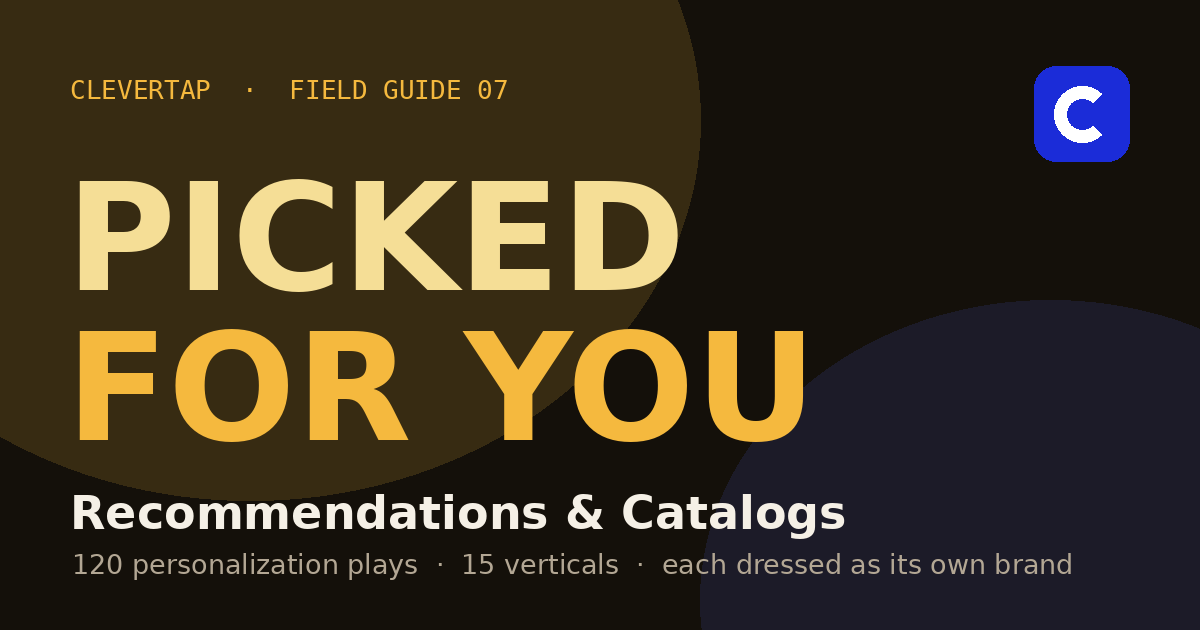
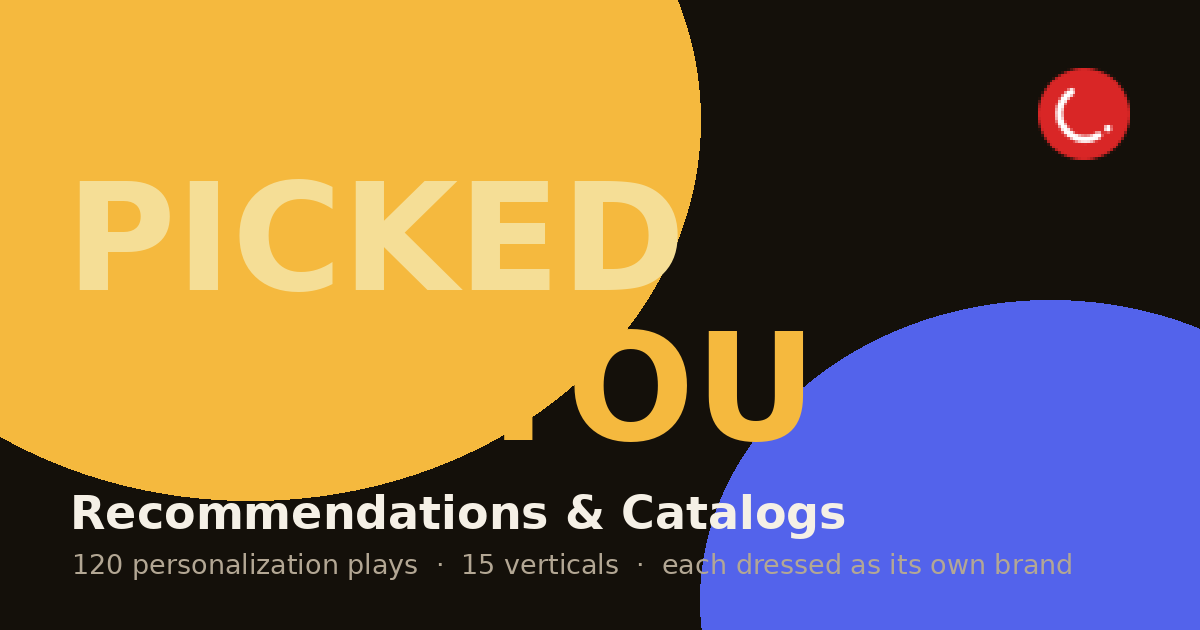
Add files via upload

diff --git a/index.html b/index.html
@@ -27,8 +27,9 @@
 <meta name="twitter:image" content="https://shijunneo-bot.github.io/ct-recommendations-gallery/og.png">
 <link rel="preconnect" href="https://fonts.googleapis.com">
 <link rel="preconnect" href="https://fonts.gstatic.com" crossorigin>
[4 lines of base64/hex data omitted]
+<link rel="apple-touch-icon" href="https://clevertap.com/wp-content/uploads/2023/08/apple-touch-icon-1.png">
 <script type="application/ld+json">
 {
   "@context":"https://schema.org",
@@ -432,14 +433,24 @@
   .cvskip:hover{color:var(--hi)}
   @media(max-width:940px){
     #cover{display:flex;flex-direction:column;overflow-y:auto}
-    .cvtop{position:static;padding:22px 20px 0}
-    .cascade{position:relative;inset:auto;perspective:none;min-width:0;width:100%;max-width:100%;display:flex;gap:14px;overflow-x:auto;padding:20px;scroll-snap-type:x proximity;-webkit-overflow-scrolling:touch;scrollbar-width:none}
+    .cvtop{position:static;padding:22px 20px 4px}
+    .cascade{position:relative;inset:auto;perspective:none;min-width:0;width:100%;max-width:100%;display:flex;gap:14px;
+      overflow-x:auto;padding:16px 13vw;scroll-snap-type:x mandatory;scroll-padding:0 13vw;scroll-behavior:smooth;
+      -webkit-overflow-scrolling:touch;scrollbar-width:none;align-items:center}
     .cascade::-webkit-scrollbar{display:none}
-    .cscard{position:static;transform:none!important;opacity:1!important;flex:0 0 80vw;scroll-snap-align:center}
+    .cscard{position:static;transform:none!important;opacity:1!important;flex:0 0 74vw;scroll-snap-align:center;scroll-snap-stop:always}
+    .cscard img{aspect-ratio:500/316;object-fit:cover;box-shadow:0 20px 44px -20px rgba(0,0,0,.8),0 0 0 1px rgba(255,255,255,.06)}
     .cslab{opacity:1}
-    .cvfoot{position:static;max-width:none;padding:6px 20px 30px}
+    .cvhint{display:flex}
+    .cvfoot{position:static;max-width:none;padding:8px 22px 34px}
     .cvword{font-size:clamp(44px,12vw,76px)}
   }
+  .cvhint{display:none;align-items:center;justify-content:center;gap:8px;margin:2px 0 2px;
+    font-family:var(--mono);font-size:10.5px;letter-spacing:.14em;text-transform:uppercase;color:var(--dim)}
+  .cvhint svg{width:16px;height:16px;stroke:var(--live);fill:none;stroke-width:1.8;stroke-linecap:round;stroke-linejoin:round;animation:swipeh 1.8s ease-in-out infinite}
+  @keyframes swipeh{0%,100%{transform:translateX(-3px);opacity:.6}50%{transform:translateX(3px);opacity:1}}
+  @media(prefers-reduced-motion:reduce){.cvhint svg{animation:none}}
+  @media(max-width:940px){.cvhint{display:flex}}
   @media(prefers-reduced-motion:reduce){.cvword{animation:none}#cover{transition:none}}
 
 
@@ -855,7 +866,8 @@
[2 lines of base64/hex data omitted]
   </div>
-  <div class="cvfoot">
+  <div class="cvhint"><svg viewBox="0 0 24 24"><path d="M5 12h14"/><path d="M13 6l6 6-6 6"/><path d="M11 6L5 12l6 6"/></svg> Swipe the shelf</div>
+<div class="cvfoot">
     <div class="cvstack" aria-hidden="true"><span class="cvword">PICKED</span><span class="cvword">FOR YOU</span></div>
     <div class="cvsub">120 plays, 15 verticals, each dressed as its own brand. Tap a card to enter its shelf, or open the whole library.</div>
     <div class="cvcta">